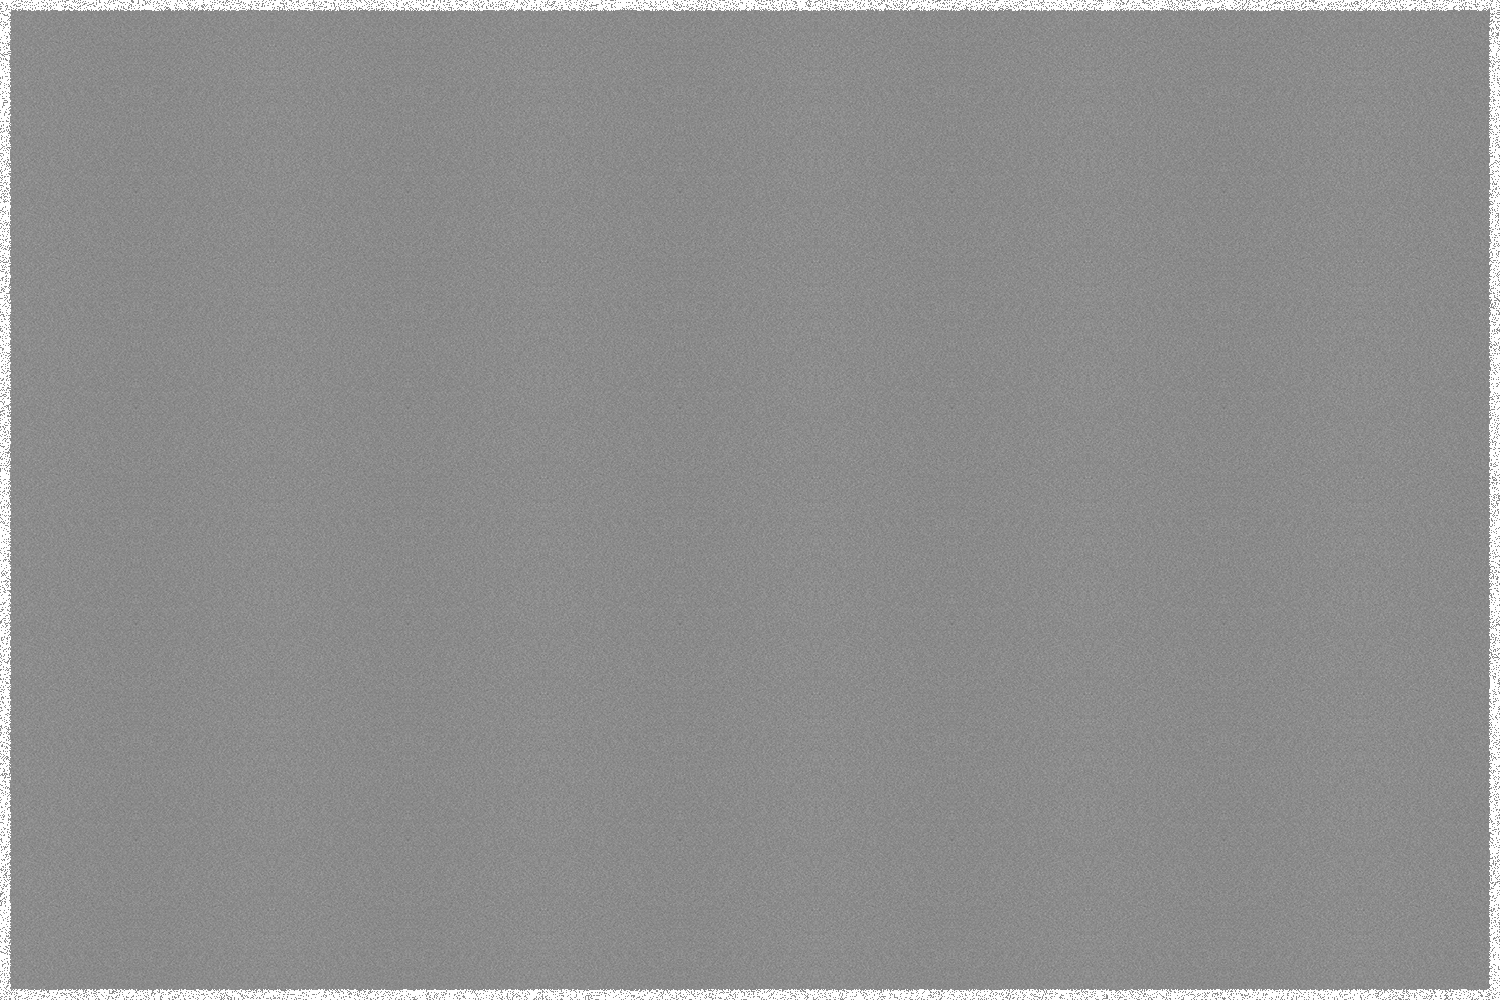
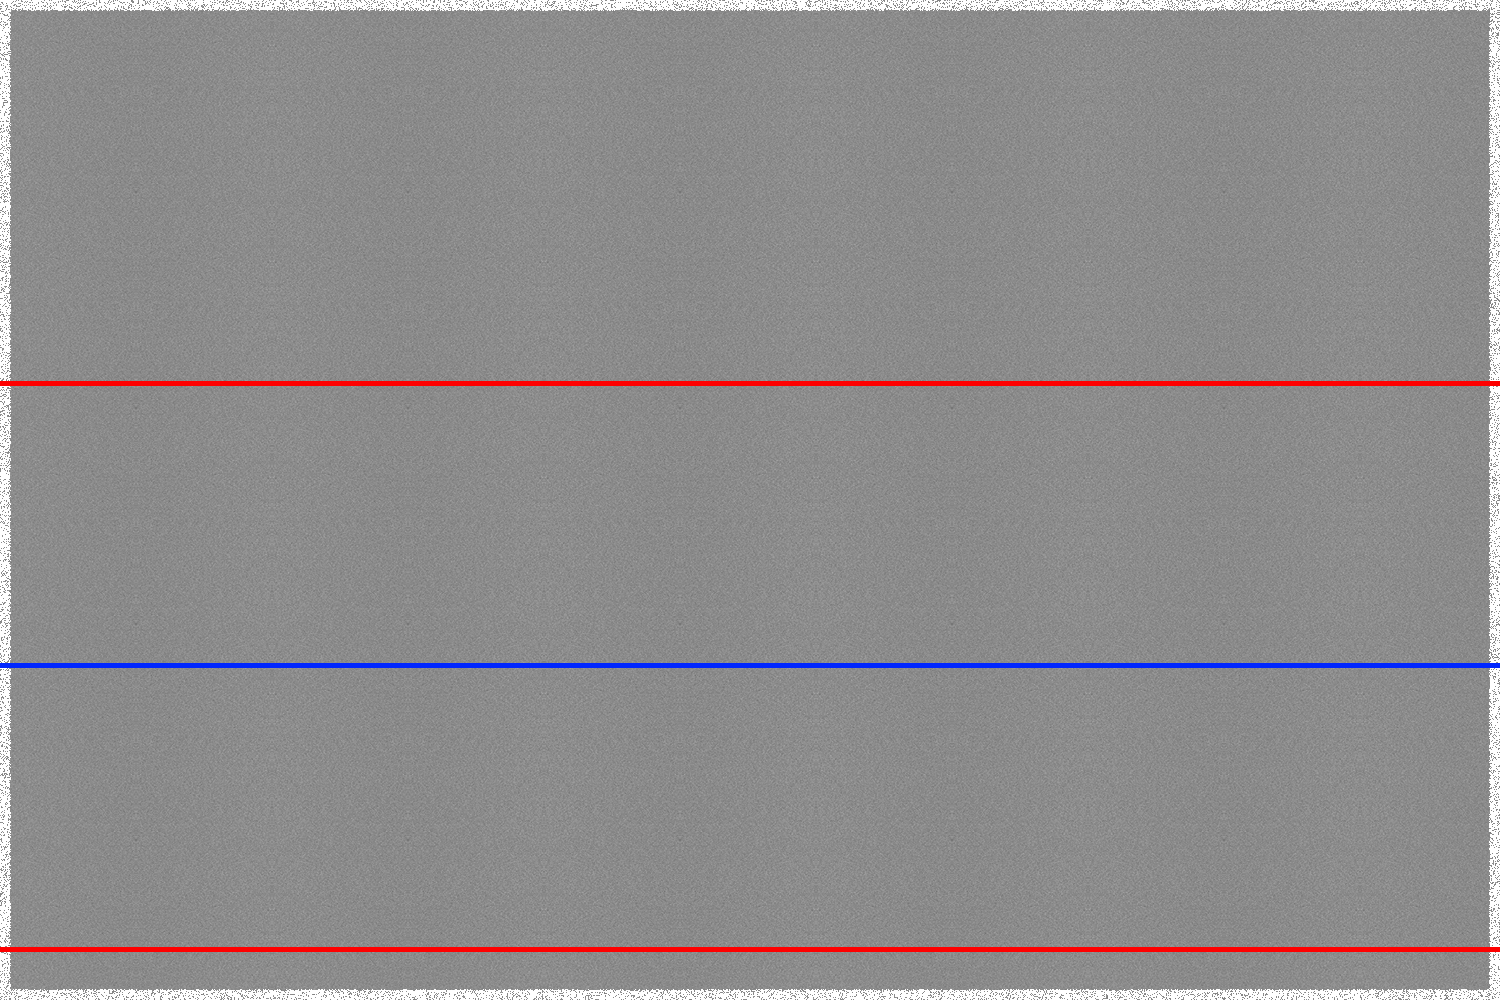
plus game mode

Changed region(s): [[0.0, 0.93, 1.0, 0.961], [0.0, 0.651, 1.0, 0.682], [0.0, 0.372, 1.0, 0.403]]

diff --git a/PairPongSender/src/com/odk/pairpongsender/OptionScreen.java b/PairPongSender/src/com/odk/pairpongsender/OptionScreen.java
@@ -9,7 +9,7 @@ import android.graphics.Paint;
 import android.graphics.Rect;
 import android.view.MotionEvent;
 
-public class Option {
+public class OptionScreen {
 	int textsize;
 	public void Draw(Canvas canvas, Paint pnt, int x, int y,Resources res) {
 		Bitmap check = ((BitmapDrawable)res.getDrawable(R.drawable.check)).getBitmap();
@@ -22,39 +22,35 @@ public class Option {
 		pnt.setTextSize(textsize);
 		canvas.drawText("Racket size", x/12, y/4, pnt);
 		canvas.drawText("Large", x*2/20, y/3, pnt);
-		canvas.drawText("regular", x*6/20, y/3, pnt);
-		canvas.drawText("small", x*10/20, y/3, pnt);
+		canvas.drawText("Regular", x*6/20, y/3, pnt);
+		canvas.drawText("Small", x*10/20, y/3, pnt);
 		canvas.drawText("Bonus Score", x/12, y*5/12, pnt);
 		canvas.drawText("Velocity", x*2/20, y/2, pnt);
 		canvas.drawText("Accuracy", x*6/20, y/2, pnt);
 		canvas.drawText("Both", x*10/20, y/2, pnt);
-		canvas.drawRect(x*4/20, y*6/20, x*5/20, y/3, pnt);
-		canvas.drawRect(x*8/20, y*6/20, x*9/20, y/3, pnt);
-		canvas.drawRect(x*12/20, y*6/20, x*13/20, y/3, pnt);
-		canvas.drawRect(x*4/20, y*9/20, x*5/20, y/2, pnt);
-		canvas.drawRect(x*8/20, y*9/20, x*9/20, y/2, pnt);
-		canvas.drawRect(x*12/20, y*9/20, x*13/20, y/2, pnt);
-		canvas.drawBitmap(check, null, new Rect(x*(4+4*MainActivity.options[0])/20, y*6/20,
-				x*(5+4*MainActivity.options[0])/20, y/3), pnt);
-		canvas.drawBitmap(check, null, new Rect(x*(4+4*MainActivity.options[1])/20, y*9/20,
-				x*(5+4*MainActivity.options[1])/20, y/2), pnt);
+		canvas.drawText("Game mode", x/12, y*7/12, pnt);
+		canvas.drawText("Classic", x*2/20, y*2/3, pnt);
+		canvas.drawText("Servive", x*6/20, y*2/3, pnt);
+		canvas.drawText("InfCombo", x*10/20, y*2/3, pnt);
+		for(int n=0;n<3;n++){
+			canvas.drawRect(x*9/40, y*(17+10*n)/60, x*11/40, y*(2+n)/6, pnt);
+			canvas.drawRect(x*17/40, y*(17+10*n)/60, x*19/40, y*(2+n)/6, pnt);
+			canvas.drawRect(x*25/40, y*(17+10*n)/60, x*27/40, y*(2+n)/6, pnt);
+			canvas.drawBitmap(check, null, new Rect(x*(9+8*MainActivity.options[n])/40, y*(17+10*n)/60,
+					x*(11+8*MainActivity.options[n])/40, y*(2+n)/6), pnt);
+		}
 		canvas.drawRect(x/3, y*5/6, x*2/3, y*19/20, pnt);
 		pnt.setTextSize(textsize);
 		pnt.setColor(Color.WHITE);
 		canvas.drawText("Exit", x/2-textsize*1f, y*109/120, pnt);
 	}
 	public String TouchEvent(MotionEvent event, int x, int y) {
-		if(event.getY()>y*6/20&&event.getY()<y/3&&event.getAction()==MotionEvent.ACTION_DOWN){
-			for(int n=0;n<3;n++){
-				if(event.getX()>x*(4+4*n)/20&&event.getY()<x*(5+4*n)/20){
-					MainActivity.options[0]=n;
-				}
-			}
-		}
-		if(event.getY()>y*9/20&&event.getY()<y/2&&event.getAction()==MotionEvent.ACTION_DOWN){
-			for(int n=0;n<3;n++){
-				if(event.getX()>x*(4+4*n)/20&&event.getY()<x*(5+4*n)/20){
-					MainActivity.options[1]=n;
+		for(int l=0;l<3;l++){
+			if(event.getY()>y*(16+10*l)/60&&event.getY()<y*(21+10*l)/60&&event.getAction()==MotionEvent.ACTION_DOWN){
+				for(int n=0;n<3;n++){
+					if(event.getX()>x*(8+8*n)/40&&event.getX()<x*(11+8*n)/40){
+						MainActivity.options[l]=n;
+					}
 				}
 			}
 		}

diff --git a/PairPongSender/src/com/odk/pairpongsender/Recoder.java b/PairPongSender/src/com/odk/pairpongsender/Recoder.java
@@ -128,7 +128,8 @@ public class Recoder {
 					showscore=true;
 					scorelist.update(rank,myscore,name,
 							new SimpleDateFormat("MM/dd HH:mm").format(new Date(System.currentTimeMillis())),
-							String.valueOf(MainActivity.options[0])+String.valueOf(MainActivity.options[1]));
+							String.valueOf(MainActivity.options[0])+String.valueOf(MainActivity.options[1])
+									+String.valueOf(MainActivity.options[2]));
 					loading=30;
 				}
 			}

diff --git a/PairPong/src/com/odk/pairpong/game/MainScene.java b/PairPong/src/com/odk/pairpong/game/MainScene.java
@@ -9,7 +9,7 @@ public class MainScene extends Scene {
     private SenderFunction sfunction;
 	public MainScene(ReceiverFunction rfunction, SenderFunction sfunction){
 		super();
-		option=new int[2];
+		option=new int[9];
 		this.rfunction = rfunction;
 		this.sfunction = sfunction;
 		this.sfunction.setpackage("com.odk.pairpongsender");
